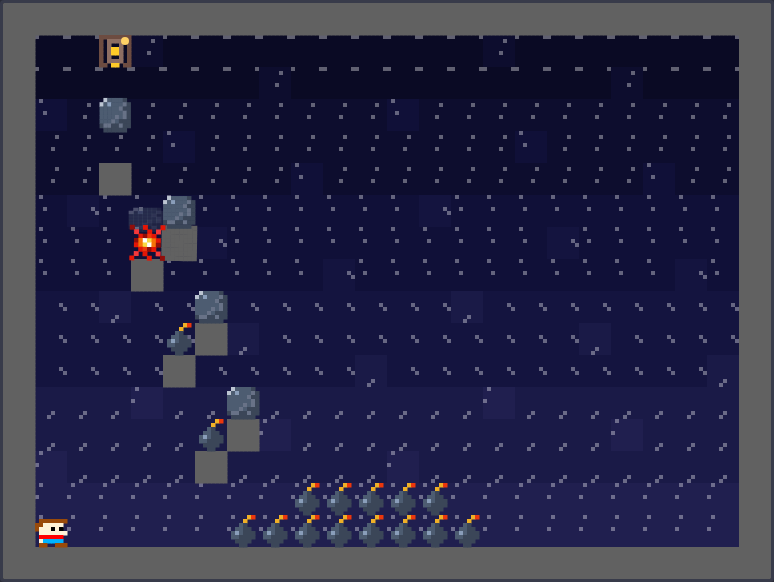
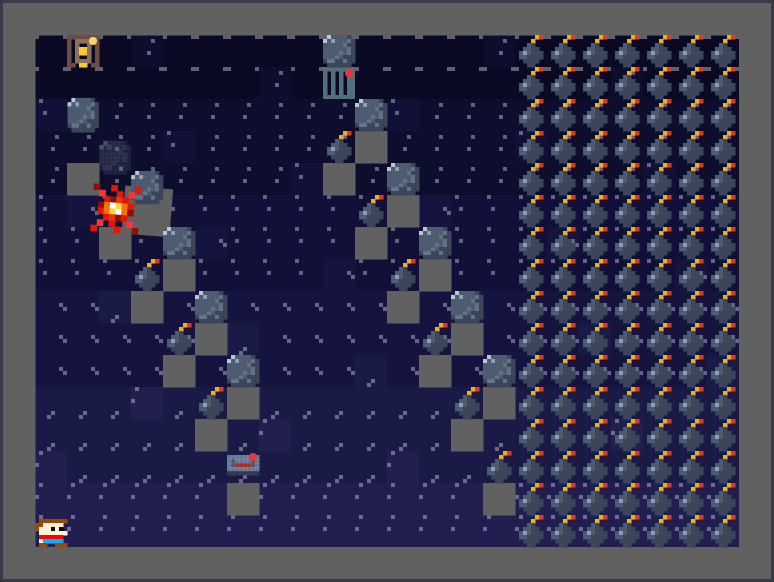
Fuse Line example: doubled chain linked by a plate and gate, floor-to-ceiling bomb display
Claude-Session: https://claude.ai/code/session_01AFnBmdx3cEuA6xEbAxjFVp

Changed region(s): [[0.2481, 0.0619, 0.9612, 0.9588], [0.062, 0.1546, 0.2791, 0.5567], [0.062, 0.0619, 0.186, 0.1237]]

diff --git a/tests/claw.gen.js b/tests/claw.gen.js
@@ -57,15 +57,23 @@ function fuse() {
   const R = blank();
   fill(R, 0, 0, 23, 0, "I"); fill(R, 0, 17, 23, 17, "I"); fill(R, 0, 0, 0, 17, "I"); fill(R, 23, 0, 23, 17, "I");
   const N = 5;
-  put(R, 3, 1, "s");                                    // stone spawner facing south over bomb 1
-  for (let k = 0; k < N; k++) {
-    const bx = 3 + k, by = 4 + k * 3;
-    put(R, bx, by, "B"); put(R, bx, by + 1, "I");
-    if (k < N - 1) { put(R, bx + 1, by, "w"); put(R, bx + 1, by - 1, "S"); }   // support block, and the next stone on it
-  }
-  fill(R, 8, 16, 14, 16, "B"); fill(R, 9, 15, 13, 15, "B");                     // the finale: a heap of bombs at the end of the line
+  // one link = a bomb on an indestructible floor tile, with the next stone resting on a support block right of it
+  const link = (x0) => {
+    for (let k = 0; k < N; k++) {
+      const bx = x0 + k, by = 4 + k * 2;
+      put(R, bx, by, "B"); put(R, bx, by + 1, "I");
+      put(R, bx + 1, by, "w"); put(R, bx + 1, by - 1, "S");
+    }
+  };
+  link(2);                                   // chain 1: a stone spawner lights bomb 1
+  put(R, 2, 1, "s");
+  put(R, 7, 14, "r"); put(R, 7, 15, "I");    // its last stone lands on a red plate...
+  link(10);                                  // chain 2, exactly the same, a couple of tiles over
+  put(R, 10, 2, "g"); put(R, 10, 1, "S");    // ...which opens the red gate holding chain 2's first stone
+  put(R, 15, 14, "B"); put(R, 15, 15, "I");  // chain 2's last stone lands on a bomb touching the display
+  fill(R, 16, 1, 22, 16, "B");               // the bomb display: floor to ceiling, every square
   put(R, 1, 16, "P");
-  const legend = { I: "raw|solid:indestructible", w: "wall", B: "bomb", S: "stone", s: "spawners:s", P: "player" };
+  const legend = { I: "raw|solid:indestructible", w: "wall", B: "bomb", S: "stone", s: "spawners:s", r: "plate:red", g: "gate:red", P: "player" };
   return { R, legend };
 }
 function entryFuse() {
@@ -78,7 +86,7 @@ function entryFuse() {
     id: "fuseline", category: "room", closed: false, stooge: "P", ext: true, weight: 2, authored: true,
     names: ["The Fuse Line", "Finale", "Light The Sky", "A Chain Of Fireworks"],
     room: { gravity: "on", wrapH: false, wrapV: false }, requires: ["bombActors"], discover: "B",
-    expect: { fact: "a stone lights the first bomb; each blast drops the next stone on the next bomb down the staircase, ending in a heap of bombs", check: "selfStart", needsInput: false, selfStart: true, chain: ["spawn", "impact", "detonate", "blastClear", "fall", "impact", "detonate"] },
+    expect: { fact: "two identical five-bomb staircases (the first ends on a plate that starts the second), then a floor-to-ceiling wall of bombs goes off", check: "selfStart", needsInput: false, selfStart: true, chain: ["spawn", "impact", "detonate", "blastClear", "fall", "impact", "detonate", "plateOn", "gateOpen"] },
     legend, rows: R.map(r => r.join("")), vary: { mirror: false },
     exact: { actors: {}, grounds: {}, bgs, skins: [], backs: [], backRows: back.map(r => r.join("|")), backLegend: Object.fromEntries(Object.keys(bgs).map(k => [k, k])), pet: null, chaser: null, reward: null, playerLook: null, _multi: true },
   });
@@ -91,7 +99,7 @@ function packBack(e) {
   delete X._multi; return e;
 }
 const only = process.argv[2];
-const entries = [entryClaw(), entryFuse()];
+const entries = [entryFuse()];
 let lines = fs.readFileSync(IDX, "utf8").split("\n");
 entries.forEach(e => {
   lines = lines.filter(l => !l.startsWith('    {"id":"' + e.id + '"'));

diff --git a/CLAUDE.md b/CLAUDE.md
@@ -7730,4 +7730,4 @@ nonsense 1 (allsprites); vignette 1 (warploop); toy 13 (catcannon, elevator, pop
 
 `examples/claw-machine.json` and `examples/fuse-line.json`, generated by `node tests/claw.gen.js` (writes both whole-room entries into index.html) and traced/saved with `node tests/claw.export.js <clawmachine|fuseline> <out.json> [secs] [padX,padY,fromSec]` (the script also sets the Moving Platform's axis to vertical in the saved project, which no Surprise piece can do yet); afterwards `git checkout index.html` so nothing ships in the pool. Screenshots: `prototypes/claw-machine.png`, `prototypes/fuse-line.png`.
 - **Claw Machine (deviation to know about).** A magnet cannot ride a Moving Platform (a magnet actor only pulls while the player holds it), so the "claw" is a vertical Moving Platform in a one-wide shaft: a crate spawner drops prizes into the shaft, the platform scoops one up (it lands on top and rides), a red-tagged fan beside the apex row blows it east off the platform onto a belt ledge only while the player stands on the red plate (fan colour via `exact.colors`; a closed Gate does NOT stop a fan, only a solid wall does), the belt drops it down a chute onto a blue plate, which opens a blue Gate and lets three prize pets out. Timing is the player's: the crate can leave the platform only while the platform is within about 0.7 s of the top (about 49 px). Traced at 60 fps: lift, fan push, ledge, chute, blue plate and released pet all happen; the platform sinks 27 px into the floor tile at the bottom (it ignores tiles). Known rough edges: prizes keep coming (spawner), so the 1-wide chute and the shaft slowly fill if the player never collects; walls are plain; only 2 of the 3 pets appear in the saved project. The pad is a Plate (momentary), not a Switch; a toggle Switch would leave the fan on.
-- **Fuse Line.** A stone spawner drops a Large Stone on bomb 1 (a stone falling 2+ tiles sets a bomb off); each blast clears the solid support under the next stone (a stone is used, not a crate, because a blast smashes crates), which falls 3-4 tiles onto the next bomb down a diagonal staircase; the last link ends in a heap of 12 bombs (adjacent bombs chain at once: the finale). Floors under bombs are `indestructible`. Traced at 30, 60 and 144 fps with identical timing: first blast about 2.6 s, one link per 0.5 s, finale at about 4.2 s, all bombs gone by 4.5 s. The spawner keeps dropping stones afterwards (they just land on the debris). Not a cannon link (skipped), and the chain is quick rather than slow-burning because blasts are instant. Not played by a person.
+- **Fuse Line (v2, doubled).** A stone spawner drops a Large Stone on bomb 1 (a stone falling 2+ tiles sets a bomb off); each blast clears the support of the next stone (stones, not crates, which a blast smashes), which falls onto the next bomb down a five-bomb staircase. The last stone of chain 1 lands on a red plate that opens a red gate holding chain 2's first stone; chain 2 is an identical staircase a few tiles over and ends on a bomb touching the display, a 7x16 (112-bomb) floor-to-ceiling wall of bombs on the right that chains off at once. Traced at 30/60/144 fps with the same timing: chain 1 from ~2.5 s, display gone by ~6.5 s. Chain 2's hand-off through the plate and gate was inferred from the bomb counts, not traced event by event. The spawner keeps dropping stones. Not played by a person. Generated by `node tests/claw.gen.js`, exported with `tests/claw.export.js`.
